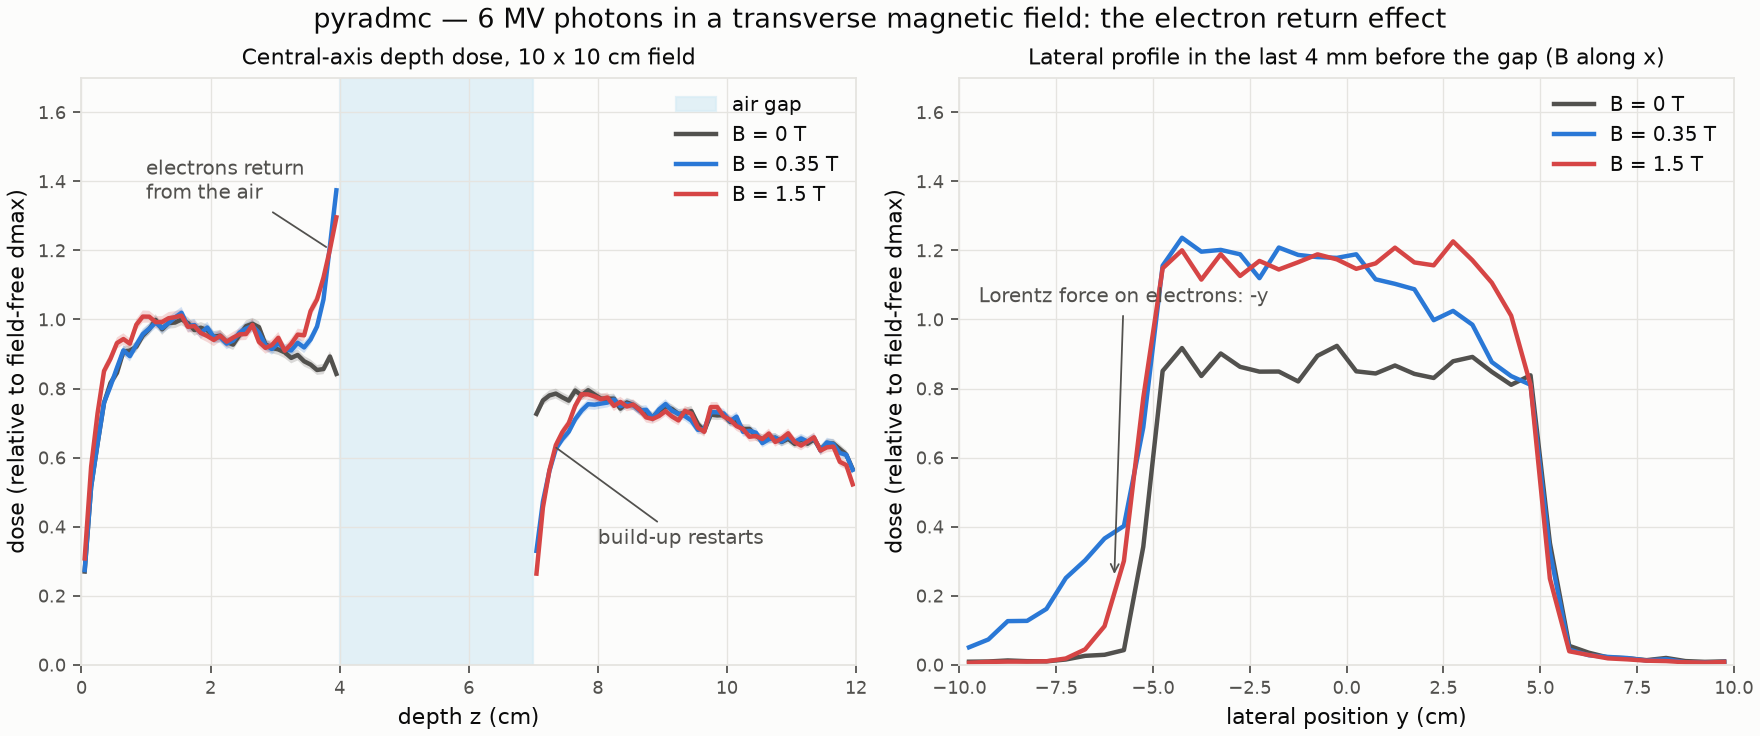
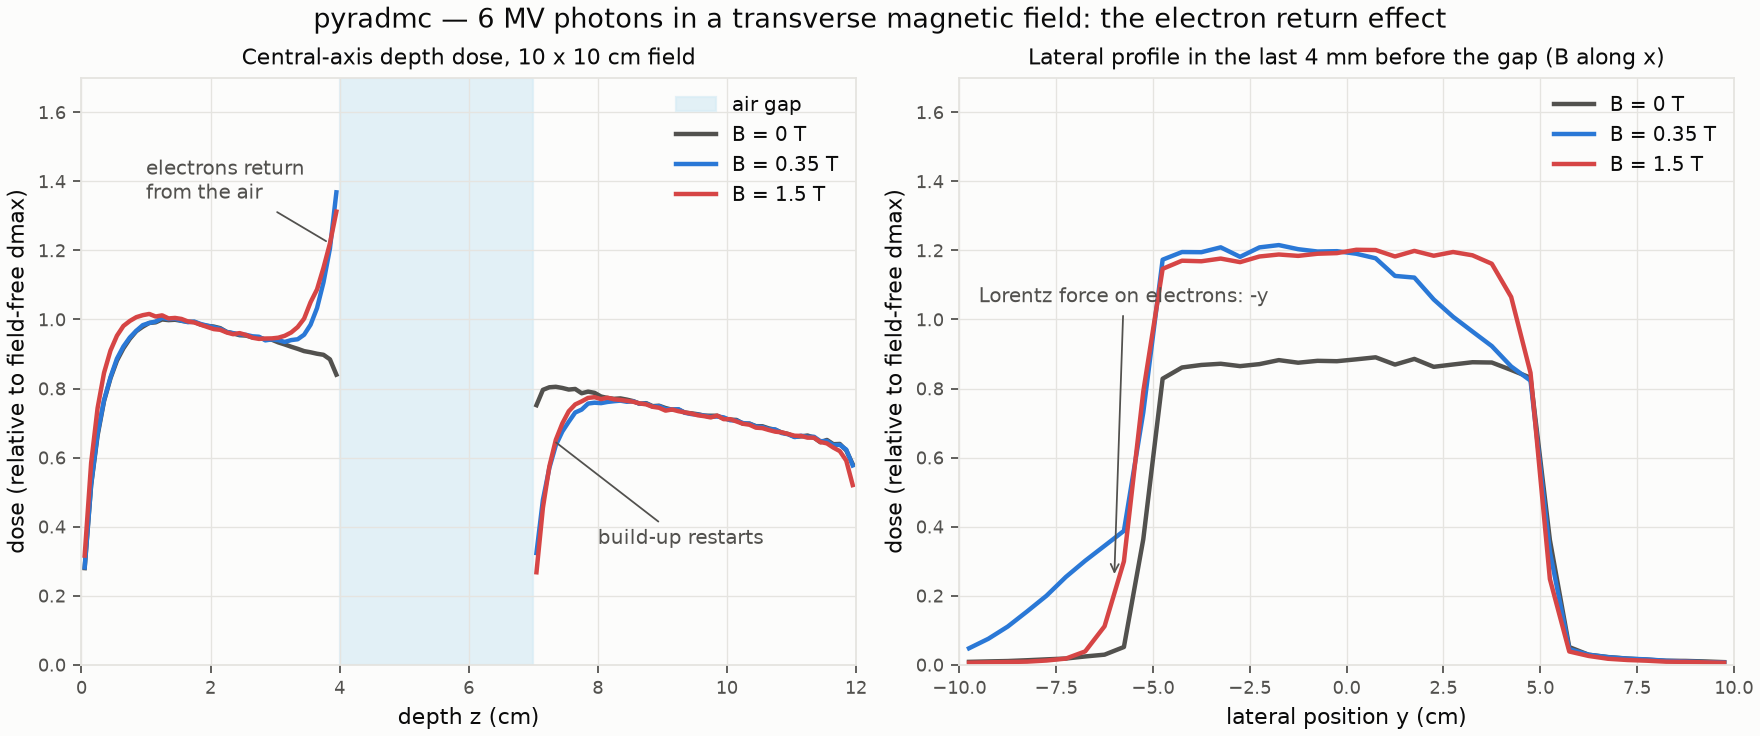
test(validation): gate the exit ERE against Raaijmakers 2008
First literature gate for magnetic-field dose. Raaijmakers, Raaymakers
and Lagendijk (2008, PMB 53, 909, sec. 3.1) report, for a 10 x 10 cm2
6 MV beam leaving a 20 x 20 x 8 cm3 water phantom, an exit-side dose
excess of 40 / 52 / 42 / 25 % of the field-free dmax at 0.2 / 0.75 /
1.5 / 3 T, a lateral 20 % shift of 17.5 / 9.5 / 4 mm at 0.75 / 1.5 /
3 T and build-up depths of 15 / 12 / 7 mm. On their phantom this engine
gives 0.42 / 0.63 / 0.50 / 0.29, 15 / 7.5 / 2.5 mm and 14.8 / 12.2 /
12.2 mm (Ali-Rogers Varian spectrum, 0.5 mm scoring). Gates: excess
within 30 % with the 0.75 > 1.5 > 3 T ordering, shift within 4 mm,
1.5 T build-up within 2 mm. The 3 T build-up is outside the gate and
recorded as a caveat.

The example docstring claimed the effect is much weaker at 0.35 T; for
a broad beam over a thick gap it is as large as at 1.5 T (an electron
leaving along the normal reaches one gyroradius into the gap, so in
3 cm everything below about 2.7 MeV turns round even at 0.35 T), and
the lateral skew is wider at the weaker field because the returning
electrons land one gyration diameter to the side. Corrected, and the
docs figure re-rendered with the hinge-face fix.

diff --git a/tests/validation/test_ere_field_strength.py b/tests/validation/test_ere_field_strength.py
@@ -1,0 +1,157 @@
+"""Exit-side electron return effect against Raaijmakers et al. 2008: the first literature gate.
+
+Raaijmakers, Raaymakers & Lagendijk (2008, PMB 53, 909, doi:10.1088/0031-9155/53/4/006,
+sec. 3.1) irradiated a 20 x 20 x 8 cm3 water phantom with a non-divergent 10 x 10 cm2
+6 MV beam in a transverse field of 0.2, 0.75, 1.5 and 3 T (Geant4 8.2, 0.5 mm scoring)
+and reported, relative to the field-free dose maximum:
+
+- the maximum ERE dose increase at the exit: **40, 52, 42 and 25 %** — largest at 0.75 T
+  and *falling* above it, because the compressed in-water kernel feeds the exit face
+  from a smaller volume; and as large at low field as at 1.5 T for a broad field,
+  because every exiting electron below a few MeV returns whatever the radius;
+- the lateral "ERE shift" of the 20 % point of the exit profile toward the Lorentz
+  side: **17.5, 9.5 and 4 mm** at 0.75, 1.5 and 3 T (beyond 5 cm at 0.2 T);
+- the build-up depth: 17, 17, 15, 12 and 7 mm at 0, 0.2, 0.75, 1.5 and 3 T.
+
+Measured here 2026-10-18 with the Ali-Rogers Varian 6 MV spectrum (theirs: an Elekta SL
+head simulation) on the same phantom with air below it inside the grid: central-axis
+excess in the last 0.5 mm of 0.42 / 0.63 / 0.50 / 0.29 at 0.2 / 0.75 / 1.5 / 3 T, i.e.
+within 5-20 % of theirs with the same field-strength ratios (0.79 and 0.58 for
+1.5 / 0.75 T and 3 / 1.5 T against their 0.81 and 0.60); shifts of 15 / 7.5 / 2.5 mm
+(2.5 mm lateral bins); build-up 15.8 / 14.8 / 12.2 / 12.2 mm at 0 / 0.75 / 1.5 / 3 T.
+The 3 T build-up (theirs 7 mm) is the one quantity off by more than the gate; it is
+outside the MR-linac range and recorded as a caveat in docs/validation.md.
+
+Gates are deliberately loose — a different spectrum, code and scoring — but tight
+enough that a lost factor in the gyroradius, the returned energy or its lateral
+displacement fails them: the excess within 30 % of the paper at 0.75, 1.5 and 3 T, the
+ordering 0.75 > 1.5 > 3 T, the shifts within 4 mm, and the 1.5 T build-up within 2 mm.
+CUDA only; four fields of 4e7 histories run in under a minute.
+"""
+
+from __future__ import annotations
+
+import numpy as np
+import pytest
+
+from pyradmc import AIR, WATER, MagneticField
+from pyradmc.geometry.grid import VoxelGrid
+from pyradmc.geometry.source import SpectralBeamSource
+from pyradmc.geometry.spectrum import ali_rogers_mv
+from tests.conftest import SEED
+
+wp = pytest.importorskip("warp", reason="warp-lang optional dependency not installed")
+
+pytestmark = [pytest.mark.validation, pytest.mark.warp, pytest.mark.gpu]
+
+PAPER_EXCESS = {0.75: 0.52, 1.5: 0.42, 3.0: 0.25}  # (D_B - D_0) / dmax_0, last 0.5 mm
+PAPER_SHIFT_MM = {0.75: 17.5, 1.5: 9.5, 3.0: 4.0}
+PAPER_BUILDUP_MM = {1.5: 12.0}
+EXCESS_TOLERANCE = 0.30  # relative
+SHIFT_TOLERANCE_MM = 4.0
+BUILDUP_TOLERANCE_MM = 2.0
+N_HISTORIES = 40_000_000
+
+DXY, DZ = 0.25, 0.05
+NXY, NZ = 80, 280  # 20 cm lateral; 8 cm water over 6 cm of air, all inside the field
+WATER_CM = 8.0
+
+
+def _phantom() -> VoxelGrid:
+    shape = (NXY, NXY, NZ)
+    zc = (np.arange(NZ) + 0.5) * DZ
+    density = np.ones(shape)
+    material = np.full(shape, WATER, dtype=np.int32)
+    density[:, :, zc >= WATER_CM] = 1.205e-3
+    material[:, :, zc >= WATER_CM] = AIR
+    return VoxelGrid(shape=shape, spacing=(DXY, DXY, DZ), density=density, material=material)
+
+
+@pytest.fixture(scope="module")
+def exit_curves():
+    """Central-axis depth dose and exit-face lateral profile per field strength."""
+    if not wp.is_cuda_available():
+        pytest.skip("four 4e7-history fields; CUDA only")
+    from pyradmc.backends.warp.engine import WarpEngine
+    from pyradmc.data.tabulated import build
+    from pyradmc.data.tabulated.precompile import compile_materials
+    from pyradmc.data.tabulated.source import TabulatedCrossSections
+
+    try:
+        epdl = build.download_library("epdl", None)
+        eedl = build.download_library("eedl", None)
+    except Exception as exc:  # pragma: no cover - network / cache dependent
+        pytest.skip(f"EPICS libraries unavailable: {exc}")
+    data = compile_materials(
+        epdl.read_text(encoding="latin-1"), eedl.read_text(encoding="latin-1"), e_max=8.0
+    )
+    grid = _phantom()
+    xs = TabulatedCrossSections(data, geometry_densities=grid.max_density_by_material())
+    half = 0.5 * NXY * DXY
+    # A 1000 cm focal distance: 0.4 % divergence over the phantom (the paper's beam is
+    # non-divergent); a farther focal point is a float32 hazard for the aperture.
+    source = SpectralBeamSource(
+        ali_rogers_mv("varian-6mv"),
+        focal_point=(half, half, -1000.0),
+        center=(half, half, 0.0),
+        width_u=10.0,
+        width_v=10.0,
+    )
+    zc = (np.arange(NZ) + 0.5) * DZ
+    yc = (np.arange(NXY) + 0.5) * DXY - half
+    water = zc < WATER_CM
+    exit_band = water & (zc >= WATER_CM - 0.2)
+    core = slice(NXY // 2 - 2, NXY // 2 + 2)  # central 1 cm
+    curves = {}
+    for b in (0.0, 0.75, 1.5, 3.0):
+        field = None if b == 0.0 else MagneticField.uniform((b, 0.0, 0.0))
+        engine = WarpEngine(grid=grid, cross_sections=xs, device="cuda:0", magnetic_field=field)
+        result = engine.run(source, n_histories=N_HISTORIES, n_batches=10, seed=SEED)
+        axis = result.dose[core, core, :].mean(axis=(0, 1))
+        exit_profile = result.dose[core, :, exit_band].mean(axis=(0, 2))
+        curves[b] = (axis, exit_profile)
+    return zc, yc, water, curves
+
+
+def _excess_last_half_mm(curves, water, b: float) -> float:
+    axis0 = curves[0.0][0]
+    dmax0 = axis0[water].max()
+    return float((curves[b][0][water][-1] - axis0[water][-1]) / dmax0)
+
+
+def test_exit_ere_excess_matches_raaijmakers_2008(exit_curves) -> None:
+    _zc, _yc, water, curves = exit_curves
+    excess = {b: _excess_last_half_mm(curves, water, b) for b in PAPER_EXCESS}
+    for b, paper in PAPER_EXCESS.items():
+        assert abs(excess[b] / paper - 1.0) < EXCESS_TOLERANCE, (
+            f"B={b} T: exit ERE excess {excess[b]:.3f} dmax0 vs paper {paper:.2f}"
+        )
+    assert excess[0.75] > excess[1.5] > excess[3.0], f"ordering: {excess}"
+
+
+def test_exit_ere_lateral_shift_matches_raaijmakers_2008(exit_curves) -> None:
+    _zc, yc, _water, curves = exit_curves
+    exit0 = curves[0.0][1]
+    level = 0.2 * exit0.max()
+    y20_0 = yc[np.flatnonzero(exit0 >= level)[0]]
+    for b, paper in PAPER_SHIFT_MM.items():
+        y20 = yc[np.flatnonzero(curves[b][1] >= level)[0]]
+        shift = 10.0 * (y20_0 - y20)  # toward -y, the Lorentz side
+        assert abs(shift - paper) < SHIFT_TOLERANCE_MM, (
+            f"B={b} T: ERE 20 % shift {shift:.1f} mm vs paper {paper:.1f} mm"
+        )
+
+
+def test_build_up_depth_shrinks_as_in_raaijmakers_2008(exit_curves) -> None:
+    zc, _yc, _water, curves = exit_curves
+    upstream = zc < 4.0
+
+    def buildup_mm(axis) -> float:
+        smooth = np.convolve(axis[upstream], np.ones(5) / 5, mode="same")
+        return float(10.0 * zc[upstream][np.argmax(smooth)])
+
+    d0, d15 = buildup_mm(curves[0.0][0]), buildup_mm(curves[1.5][0])
+    assert d15 < d0, f"build-up did not shrink: {d0:.1f} -> {d15:.1f} mm"
+    assert abs(d15 - PAPER_BUILDUP_MM[1.5]) < BUILDUP_TOLERANCE_MM, (
+        f"1.5 T build-up {d15:.1f} mm vs paper {PAPER_BUILDUP_MM[1.5]:.0f} mm"
+    )

diff --git a/examples/magnetic_field_demo.py b/examples/magnetic_field_demo.py
@@ -10,12 +10,22 @@ transverse to the beam as on an MR-linac (ViewRay MRIdian: 0.35 T; Elekta Unity:
   on the water side — the *electron return effect* (Raaijmakers, Raaymakers &
   Lagendijk 2005, PMB 50, 1363, doi:10.1088/0031-9155/50/7/002) — so the last
   millimetres before the gap gain dose while the downstream water, no longer fed by
-  electrons crossing the gap, rebuilds from its own surface. At 0.35 T the
-  gyroradius is four times larger and the effect is much weaker.
+  electrons crossing the gap, rebuilds from its own surface. The peak is as high at
+  0.35 T as at 1.5 T: an electron leaving along the normal reaches only one
+  gyroradius into the gap, so in a 3 cm gap everything below about 2.7 MeV turns
+  round even at 0.35 T, which is essentially the whole exit spectrum of a 6 MV beam.
+  That is the saturation Raaijmakers et al. (2008, PMB 53, 909,
+  doi:10.1088/0031-9155/53/4/006) report for broad fields: an exit-side dose
+  increase of 40 / 52 / 42 / 25 % at 0.2 / 0.75 / 1.5 / 3 T for a 10 x 10 cm2 field.
 - **Right**: lateral profile across the beam in the last 4 mm of water before the
-  gap. The Lorentz force pushes the returning electrons to one side (toward -y for a
-  +z beam in a +x field): the profile skews, one penumbra spreads out of the field and
-  the other sharpens.
+  gap. The returning electrons land one gyration *diameter* to the side (toward -y
+  for a +z beam in a +x field), so the profile skews, and the skew is *wider* at the
+  weaker field: a 1 MeV electron comes back 2.7 cm to the left at 0.35 T and 6 mm at
+  1.5 T. The right edge loses the electrons that would have returned from outside
+  the field, the left edge gains them; at 0.35 T the dose rises gradually from the
+  right edge to the left and a long tail reaches centimetres beyond the field, as
+  Raaijmakers et al. (2008) describe for 0.2 T. The in-water penumbra shift that
+  grows *with* the field is under a millimetre here and invisible on 5 mm voxels.
 
 Air is a real registry material here (EPICS-tabulated cross-sections, downloaded and
 cached on first use), and the field is :class:`pyradmc.MagneticField` handed to the

diff --git a/docs/validation.md b/docs/validation.md
@@ -18,6 +18,7 @@ than the passes.
 | Backend vs backend, field on (water slabs, electron beam, tabulated spectral thorax at 1.5 T) | reference oracle | chi-squared detection oracle | passes |
 | Fano test in a field, density ratios 0.1 / 0.01 / 0.001 (0.2 and 2 cm gaps), 0.5 and 1 MeV, 0.35 and 1.5 T | Fano theorem (Bouchard et al. 2015) | the field moves the gap-to-wall dose per mass by < 1 % | moved by <= 0.4 % at a tenth and a hundredth, <= 0.8 % in a 2 cm air gap; in a 0.2 cm air gap the field shrinks the field-free thin-gap residual (0.98 -> 0.995), held to that residual's 3 % gate |
 | Fano test without a field, same phantoms, shipped substep fraction 0.05 | Fano theorem | gap-to-wall within 1 % at a tenth of the wall density, within 3 % down to air density | 2 cm gaps 0.996-1.001 at every contrast; 0.2 cm air gap 0.979 / 0.975 (0.5 / 1 MeV) |
+| Exit-side ERE vs field strength, 10 x 10 cm2 6 MV on 20 x 20 x 8 cm3 water (Raaijmakers et al. 2008, Geant4 + film-verified setup) | literature: excess 40 / 52 / 42 / 25 % of dmax at 0.2 / 0.75 / 1.5 / 3 T, 20 % shift 17.5 / 9.5 / 4 mm, build-up 15 / 12 / 7 mm | excess within 30 % at 0.75-3 T with the 0.75 > 1.5 > 3 T ordering; shift within 4 mm; 1.5 T build-up within 2 mm | excess 0.42 / 0.63 / 0.50 / 0.29 (ratios 0.79 and 0.58 vs 0.81 and 0.60); shift 15 / 7.5 / 2.5 mm; build-up 14.8 / 12.2 / 12.2 mm |
 | Fano test, 0.2 cm air gap, substep fraction 0.02, 0 and 1.5 T | Fano theorem | gap-to-wall within 1.5 %, field moves it < 1.5 % | 0.998 / 0.994 at 0 T, 0.992 / 0.996 at 1.5 T (0.5 / 1 MeV, +- 0.3 %) |
 | Electron return effect, water / light gap / water | qualitative sign (Raaijmakers 2005) | gain before the gap, loss behind it, lateral push toward the Lorentz force | passes |
 
@@ -71,17 +72,29 @@ Below ~1 MeV the analytic cross-section layer is an explicitly few-percent
 parameterization (Klein-Nishina without binding, a crude photoelectric power law, no
 Rayleigh). Use the tabulated backend where the soft spectrum matters.
 
-### Magnetic-field dose is not yet gated against published benchmarks
+### Magnetic-field dose is gated against one published benchmark
 
 The Lorentz step is pinned against the analytic helix, against the reference engine
 with the field on (including the tabulated spectral thorax at 1.5 T) and by the Fano
-test in a field at lung-like density ratios, and the electron return effect comes out
-with the right sign and shape. What is missing is a quantitative gate against an
-independent code or measurement: Raaijmakers' film phantoms (PMMA-air-PMMA, 0.6 and
-1.3 T), the water-lung-water interface excursions of Ahmad et al. and Li et al. at
-1.5 T, and EGSnrc's EEMF slab example. The maintainer is collecting those curves and
-TOPAS/EGSnrc runs of the example geometry; until they land, treat magnetic-field dose
-as *validated for internal consistency*, not against the literature.
+test in a field down to air density, and since 2026-10-18 against one published
+benchmark: the exit-side electron return effect of Raaijmakers et al. (2008, PMB 53,
+909) as a function of field strength (`tests/validation/test_ere_field_strength.py`).
+On their phantom and field the central-axis dose excess in the last 0.5 mm of water is
+0.42 / 0.63 / 0.50 / 0.29 of the field-free dmax at 0.2 / 0.75 / 1.5 / 3 T against
+their 40 / 52 / 42 / 25 %, with their field-strength ratios reproduced to a few per
+cent, the lateral 20 % shift 15 / 7.5 / 2.5 mm against 17.5 / 9.5 / 4 mm, and the
+build-up depth 14.8 / 12.2 mm at 0.75 / 1.5 T against 15 / 12 mm. Two things in that
+comparison deserve a note. The effect is as large at low field as at 1.5 T for a broad
+beam, with the maximum at 0.75 T, exactly as they report: everything below a few MeV
+turns round whatever the radius, and what a weaker field changes is *where* it lands —
+one gyration diameter to the Lorentz side, centimetres at 0.2-0.35 T, millimetres at
+1.5 T — so the lateral skew of an exit profile is wider at the weaker field, not
+narrower. And the 3 T build-up depth (12 mm here, 7 mm in the paper) is the one
+quantity outside the gate; 3 T is outside the MR-linac range and it is not gated.
+Still missing: Raaijmakers' film phantoms (PMMA-air-PMMA, 0.6 and 1.3 T), the
+water-lung-water interface excursions of Ahmad et al. and Li et al. at 1.5 T, and
+EGSnrc's EEMF slab example; TOPAS/EGSnrc runs of the example geometry would still be
+welcome as an independent-code check.
 
 Two standing caveats. Outside the transport grid there is no field, so an MR-linac
 setup must extend the grid with air voxels to the phase-space plane. And at a

diff --git a/CHANGELOG.md b/CHANGELOG.md
@@ -34,6 +34,12 @@ boundary fix under `Fixed` moves electron dose at density interfaces and is meas
   water / low-density / water slab, and the Fano test in a field (validation tier).
   Demonstrated by `examples/magnetic_field_demo.py`. Outside the transport grid there is
   no field (AGENTS.md section 8).
+- **First literature gate for magnetic-field dose**
+  (`tests/validation/test_ere_field_strength.py`): the exit-side electron return effect
+  of Raaijmakers et al. 2008 (PMB 53, 909) at 0.75, 1.5 and 3 T — dose excess within
+  30 %, field-strength ordering, lateral shift within 4 mm, build-up depth at 1.5 T
+  within 2 mm. Measured: excess 0.42 / 0.63 / 0.50 / 0.29 of dmax at 0.2 / 0.75 / 1.5 /
+  3 T against the paper's 0.40 / 0.52 / 0.42 / 0.25.
 - `examples/dij_plan_sigma_demo.py`: plan-dose uncertainty from the Dij, three ways —
   quadrature of the column variances from an independent Dij, the same from a correlated
   Dij, and a direct forward simulation — against the seed-to-seed spread of the plan
@@ -83,6 +89,12 @@ boundary fix under `Fixed` moves electron dose at density interfaces and is meas
 
 ### Changed
 
+- `examples/magnetic_field_demo.py` docstring: the electron return effect is *not*
+  "much weaker" at 0.35 T for a broad beam over a thick gap — it is as large as at
+  1.5 T (Raaijmakers et al. 2008), and the lateral skew of the exit profile is wider at
+  the weaker field because the returning electrons land one gyration diameter to the
+  side. The figure is re-rendered with the hinge-face fix (air voxels adjacent to water
+  drop about threefold; the water side moves under 2 %).
 - The correlated-columns constraint (AGENTS.md section 8, validation page) is now
   quantified as above rather than stated as a blanket prohibition; the
   `DijResult.variance_csc` caveat says what the quadrature omits and points at the
